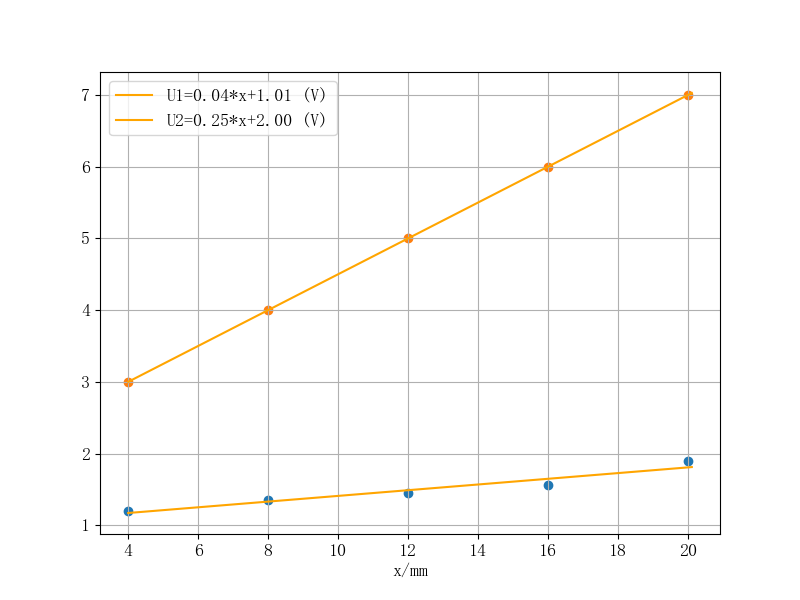
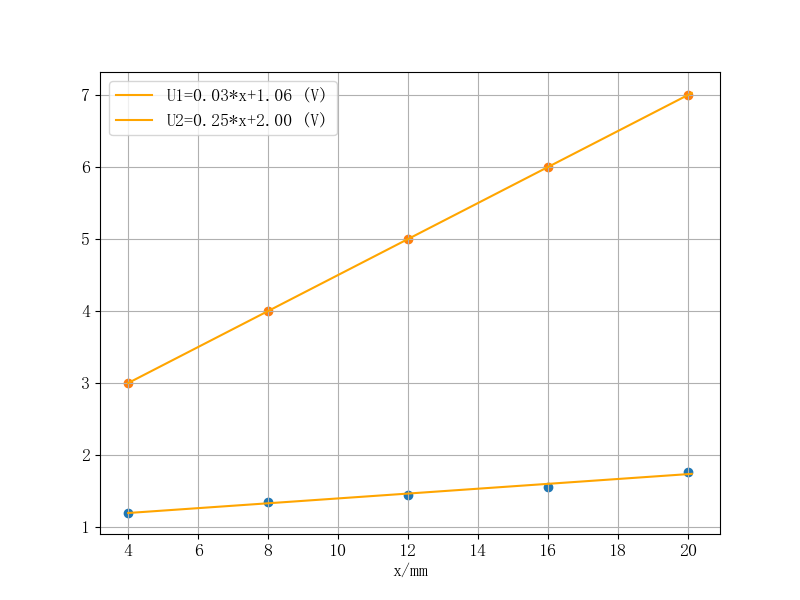
修复了图片不更新的bug

diff --git a/phyplot/plot.py b/phyplot/plot.py
@@ -47,7 +47,7 @@ class MyPlot:
         # 保存表格
         plt.savefig('table_'+self.filename)
 
-    def plot_fig(self, fit_deg: int = 1, bool=False ,show_coordinate:bool=False) -> None:
+    def plot_fig(self, fit_deg: int = 1 ,show_coordinate:bool=False) -> None:
         # 创建figure和子图
         fig, ax = plt.subplots(figsize=(8, 6))
         
@@ -60,11 +60,12 @@ class MyPlot:
                 if show_coordinate:
                     for i in range(len(self.data[self.x_label])):
                         ax.annotate(f"({self.data[self.x_label][i]}, {values[i]})", (self.data[self.x_label][i], values[i]), textcoords="offset points", xytext=(0,10), ha='center')
-
+        regression_results = []
         if fit_deg == 1:
-            regression_results = []
+            
             for label, values in self.data.items():
                 if label != self.x_label:
+                    print(label)
                     # 计算线性回归的多项式系数
                     coefficients = np.polyfit(self.data[self.x_label],values,fit_deg) 
                     poly = np.poly1d(coefficients)
@@ -74,7 +75,7 @@ class MyPlot:
                     lx=np.arange(min(self.data[self.x_label]),max(self.data[self.x_label])+0.2,step=0.1) #画曲线的点要更多
                     ax.plot(lx, poly(lx), color='orange', label=equation)
                     regression_results.append(coefficients)
-            return regression_results
+            
 
         else: #画平滑曲线
             for label, values in self.data.items():
@@ -89,7 +90,7 @@ class MyPlot:
         ax.legend()
         # 保存图表
         plt.savefig('figure_'+self.filename)
-
+        return regression_results
 
     def plot(self, fit_deg: int = 1) -> None:
         self.plot_table()

diff --git a/demo/demo.py b/demo/demo.py
@@ -1,6 +1,6 @@
 from phyplot import plot
 x=[4,8,12,16,20]
-y=[1.2,1.35,1.45,1.56,1.89]
+y=[1.2,1.35,1.45,1.56,1.77]
 z=[3,4,5,6,7]
 fig=plot.MyPlot({'x/mm':x,'U1/V':y,'U2/V':z})
 fig.plot()

diff --git a/setup.py b/setup.py
@@ -1,7 +1,7 @@
 from setuptools import setup, find_packages
 
 setup(
-    name='myplotpkg',
+    name='phyplot',
     version='0.1.0',
     author='birchtree2',
     author_email='',
